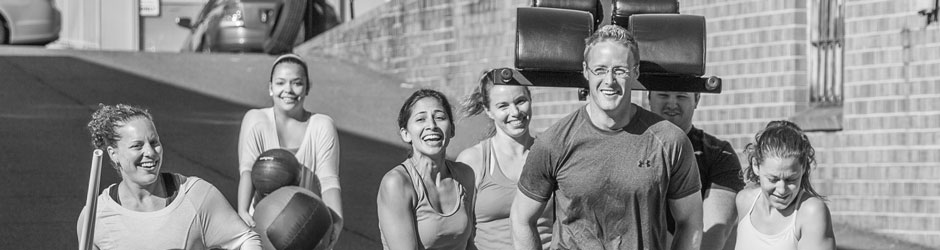
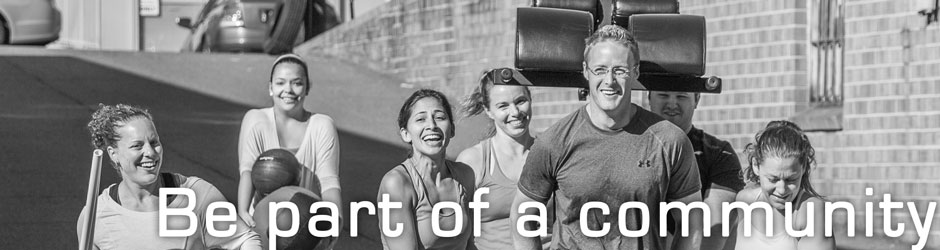
updated images

Changed region(s): [[0.1543, 0.728, 0.5862, 1.0], [0.617, 0.756, 1.0, 1.0]]

diff --git a/index.php b/index.php
@@ -13,6 +13,10 @@
    */
 
    get_header(); ?>
+<img src="<?php bloginfo('wpurl'); ?>/wp-content/themes/crossfit_fallschurch_theme/images/front_page/_community.jpg" alt="" >
+<div style="position: absolute; bottom: 0; left: 0.5em; width: 400px; font-weight: bold; color: #fff;">
+<p>(text to appear at the bottom left of the image)</p>
+</div>
 <div class="LayoutP LayoutCenter ArticleGrid">
     <div class="LayoutRow Link">
         <div class="LayoutBreakAfter">
@@ -20,16 +24,19 @@
                 <div>
                     <div id="slider" class="nivoSlider">
                         <a href="/get-started/">
-                          <img src="/wp-content/themes/crossfit_fallschurch_theme/images/front_page/_community.jpg" alt="" >
+                          <img src="<?php bloginfo('wpurl'); ?>/wp-content/themes/crossfit_fallschurch_theme/images/front_page/_community.jpg" alt="" >
+                                <p class="text">
+                                    Hello World!
+                                </p>
                         </a>
                         <a href="/get-started/">
-                          <img src="/wp-content/themes/crossfit_fallschurch_theme/images/front_page/_professional_staff.jpg" alt="" >
+                          <img src="<?php bloginfo('wpurl'); ?>/wp-content/themes/crossfit_fallschurch_theme/images/front_page/_professional_staff.jpg" alt="" >
                         </a>
                         <a href="/get-started/">
-                          <img src="/wp-content/themes/crossfit_fallschurch_theme/images/front_page/get_results.jpg" alt="" >
+                          <img src="<?php bloginfo('wpurl'); ?>/wp-content/themes/crossfit_fallschurch_theme/images/front_page/get_results.jpg" alt="" >
                         </a>
                         <a href="/get-started/">
-                          <img src="/wp-content/themes/crossfit_fallschurch_theme/images/front_page/_free_workout.jpg" alt="" >
+                          <img src="<?php bloginfo('wpurl'); ?>/wp-content/themes/crossfit_fallschurch_theme/images/front_page/_free_workout.jpg" alt="" >
                         </a>
                     </div>
                 </div>
